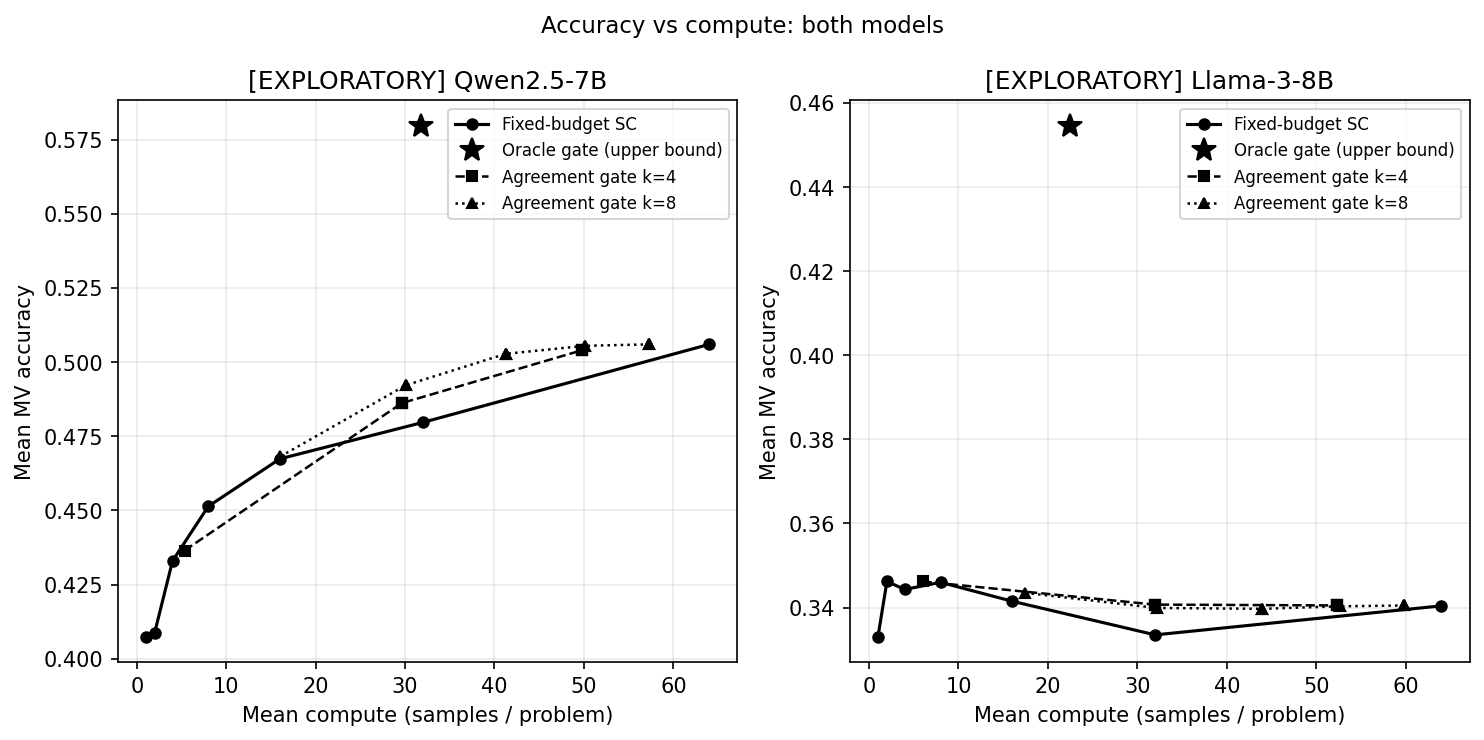
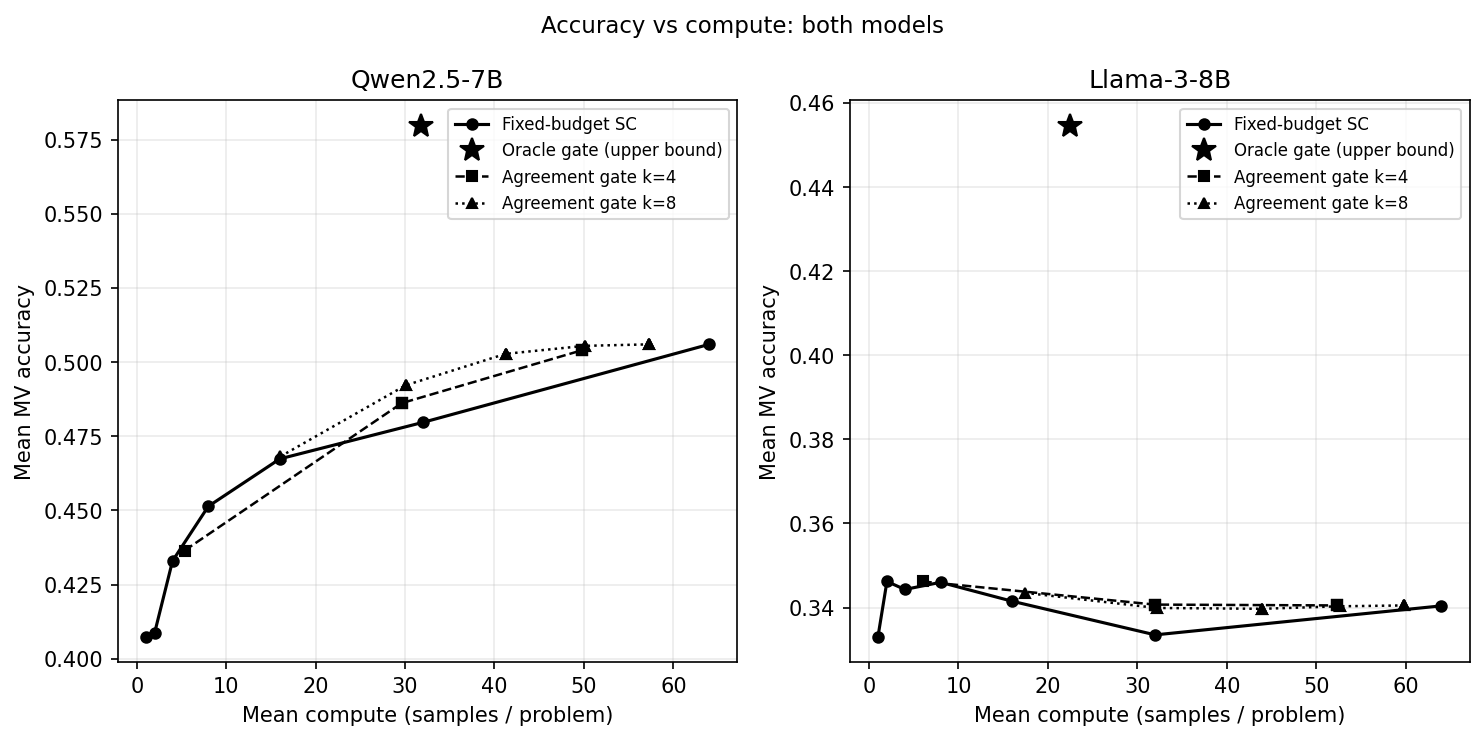
figures: remove EXPLORATORY title prefix for submission

Changed region(s): [[0.6509, 0.0932, 0.8989, 0.1243], [0.155, 0.0932, 0.403, 0.1243]]

diff --git a/scripts/run_cross_model.py b/scripts/run_cross_model.py
@@ -278,7 +278,7 @@ def _make_backfire_both(
         ax.axvline(0, color="black", linewidth=1.2, linestyle="--")
         ax.set_xlabel("mv_gain = MV_acc(64) - MV_acc(1)")
         ax.set_ylabel("problems")
-        ax.set_title(f"[EXPLORATORY] {label}")
+        ax.set_title(f"{label}")
         ax.legend(fontsize=9)
     fig.suptitle("Backfire distribution: both models", fontsize=11)
     fig.tight_layout()
@@ -328,7 +328,7 @@ def _make_pareto_both(
             )
         ax.set_xlabel("Mean compute (samples / problem)")
         ax.set_ylabel("Mean MV accuracy")
-        ax.set_title(f"[EXPLORATORY] {label}")
+        ax.set_title(f"{label}")
         ax.legend(fontsize=8)
         ax.grid(True, alpha=0.25)
 
@@ -384,7 +384,7 @@ def _make_calibration_both(
     ax.set_xticklabels(CONFIDENCE_BIN_LABELS, fontsize=9)
     ax.set_xlabel("Confidence bin (plurality fraction)")
     ax.set_ylabel("Fraction plurality answer is correct")
-    ax.set_title("[EXPLORATORY] Calibration: confident-wrong = confident-right?")
+    ax.set_title("Confidence vs. accuracy by agreement bin")
     ax.set_ylim(0, 1.05)
     ax.legend(fontsize=9)
     ax.axhline(0.5, color="gray", linewidth=0.7, linestyle="--")